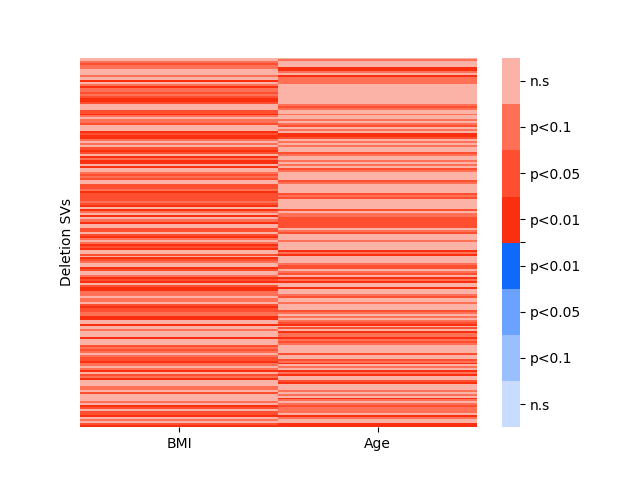
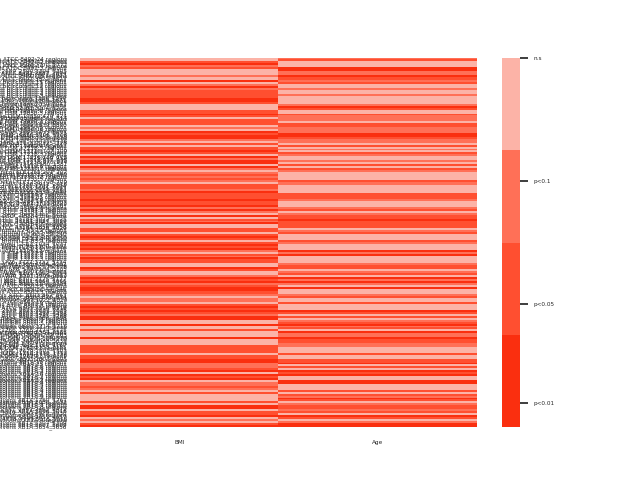
Taxonomy for MannWhitney (graphs need to be re-formatted)

diff --git a/Phenotype_Association/code/MannWhitneyDeletions.py b/Phenotype_Association/code/MannWhitneyDeletions.py
@@ -5,6 +5,7 @@ import bmiList
 import numpy as np
 from mne.stats import fdr_correction as fdr
 import seaborn as sns
+sns.set(font_scale = .375)
 
 #initiating the file to be read
 deletions = "../data/dsgv.df"
@@ -14,6 +15,21 @@ print(dfile.head())
 #mann whitney for the columns
 ageppl = bmiList.getAgeppl()
 bmippl = bmiList.getBMIppl()
+
+taxa = []
+sciname = []
+binslist = []
+for col in dfile.columns:
+    tax, bins = bmiList.parseName(col)
+    taxa.append(tax)
+    binslist.append(bins)
+
+sciname = bmiList.getTax(taxa)
+taxonomy = []
+for count in range(len(sciname)):
+    fullname = sciname[count] + binslist[count]
+    taxonomy.append(fullname)
+
 
 bmiOrder = []
 ageOrder = []
@@ -82,8 +98,10 @@ ageReject, ageQvals = fdr(agePvals, 0.05, 'indep')
 #heatmap condtitions
 passAge = []
 passBMI = []
+passTax = []
 for count in range(len(agePvals)):
     if agePvals[count] < .1 or bmiPvals[count] < .1:
+        passTax.append(taxonomy[count])
         if ageUs[count] < 0:
             passAge.append((agePvals[count] * -1))    
         else:
@@ -97,7 +115,7 @@ for count in range(len(agePvals)):
 heatset = np.column_stack((passBMI, passAge))
 colors = ["#c7dcff","#99bfff", "#6ba1ff","#0f69fa" ,"#fa2f0f" ,"#ff4f30", "#ff7057", "#fcb3a7"]
 reds = ["#fa2f0f" ,"#ff4f30", "#ff7057", "#fcb3a7"]
-fig = sns.heatmap(heatset, vmax = .15, vmin = 0, cmap = reds, center = .075, xticklabels = ["BMI", "Age"], yticklabels = False)
+fig = sns.heatmap(heatset, vmax = .15, vmin = 0, cmap = reds, center = .075, xticklabels = ["BMI", "Age"], yticklabels = passTax)
 fig.set(ylabel = "Deletion SVs")
 colorbar = fig.collections[0].colorbar
 colorbar.set_ticks([.01, .05, .1, 0.15])
@@ -108,8 +126,10 @@ e.savefig("../results/Deletion_SV/MannUWhitneyPvalsHeatmap.png")
 
 passAge = []
 passBMI = []
+passTax = []
 for count in range(len(ageQvals)):
     if ageQvals[count] < .1 or bmiQvals[count] < .1:
+        passTax.append(taxonomy[count])
         if ageUs[count] < 0:
             passAge.append((ageQvals[count] * -1))    
         else:
@@ -121,7 +141,7 @@ for count in range(len(ageQvals)):
 
 
 heatset = np.column_stack((passBMI, passAge))
-fig = sns.heatmap(heatset, vmax = .12, vmin = -0.12, cmap = colors, center = 0, xticklabels = ["BMI", "Age"], yticklabels = False)
+fig = sns.heatmap(heatset, vmax = .12, vmin = -0.12, cmap = colors, center = 0, xticklabels = ["BMI", "Age"], yticklabels = passTax)
 fig.set(ylabel = "Deletion SVs")
 colorbar = fig.collections[0].colorbar
 colorbar.set_ticks([-0.105, -0.075, -.045,-.015, 0,.015, .045, .075, 0.105])
